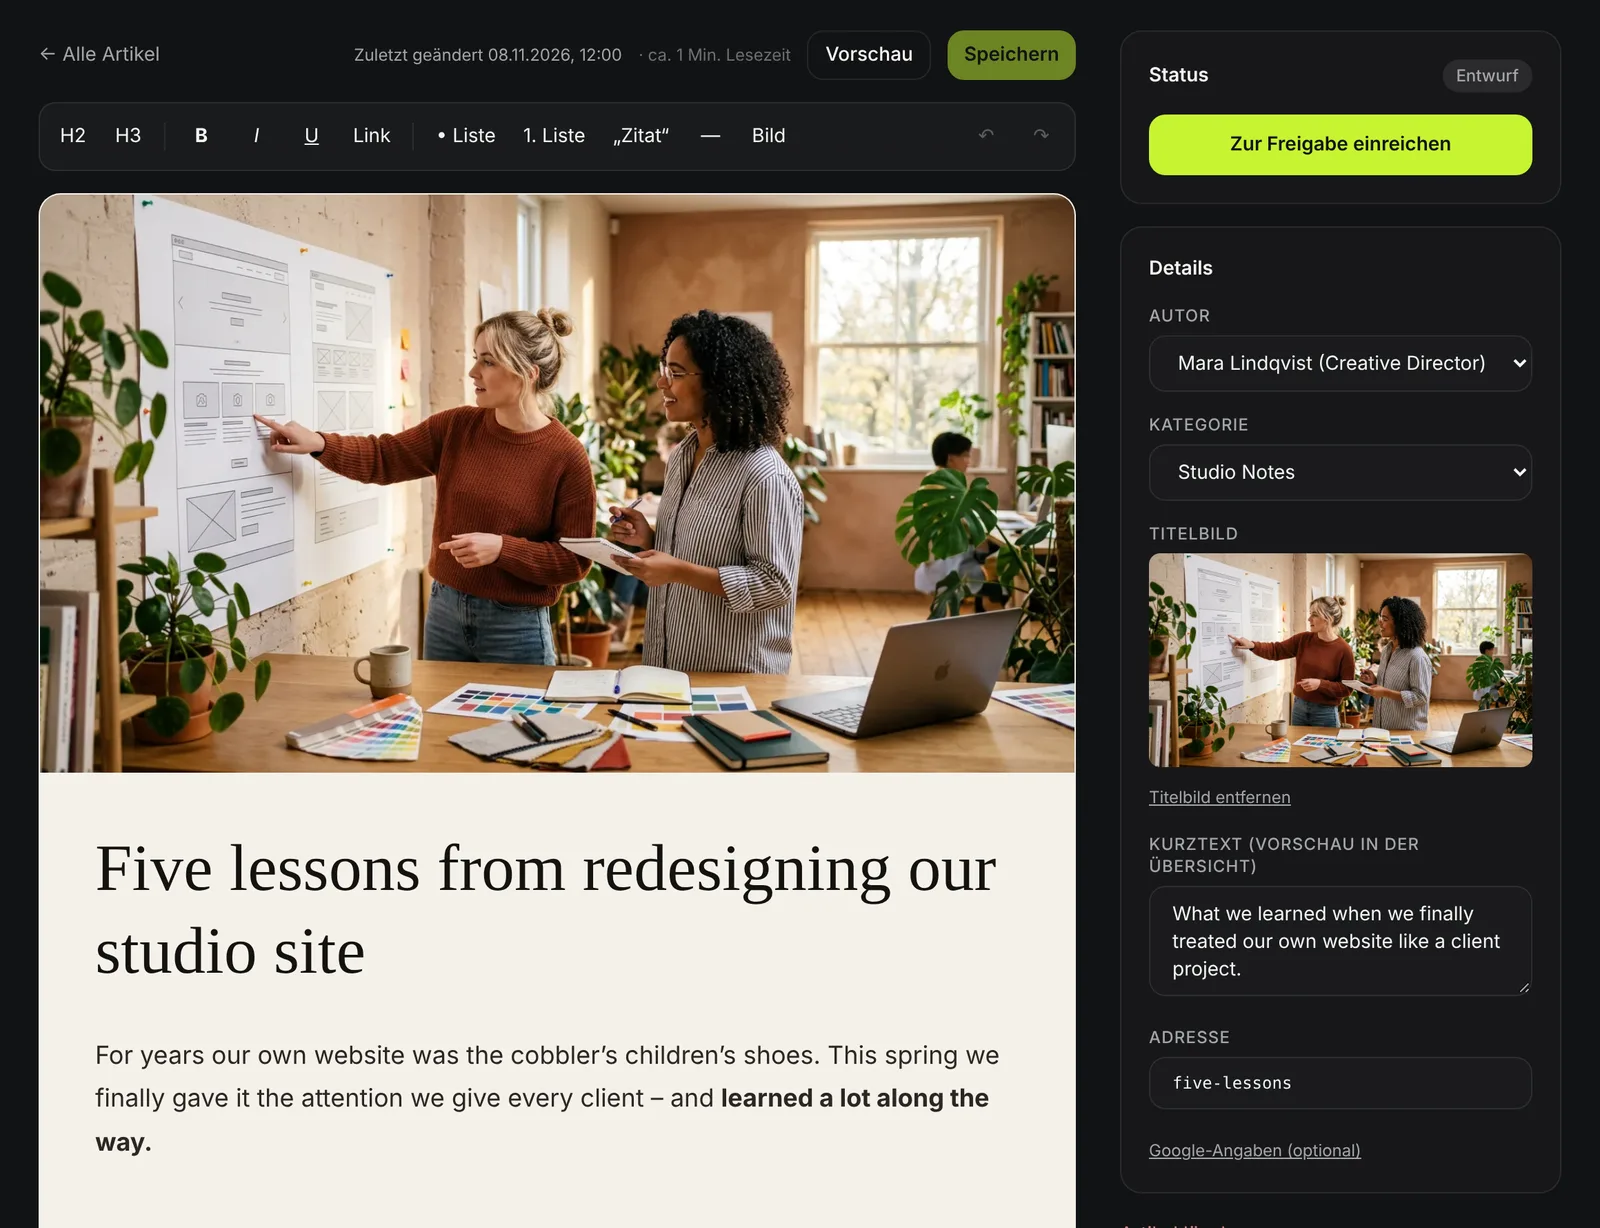
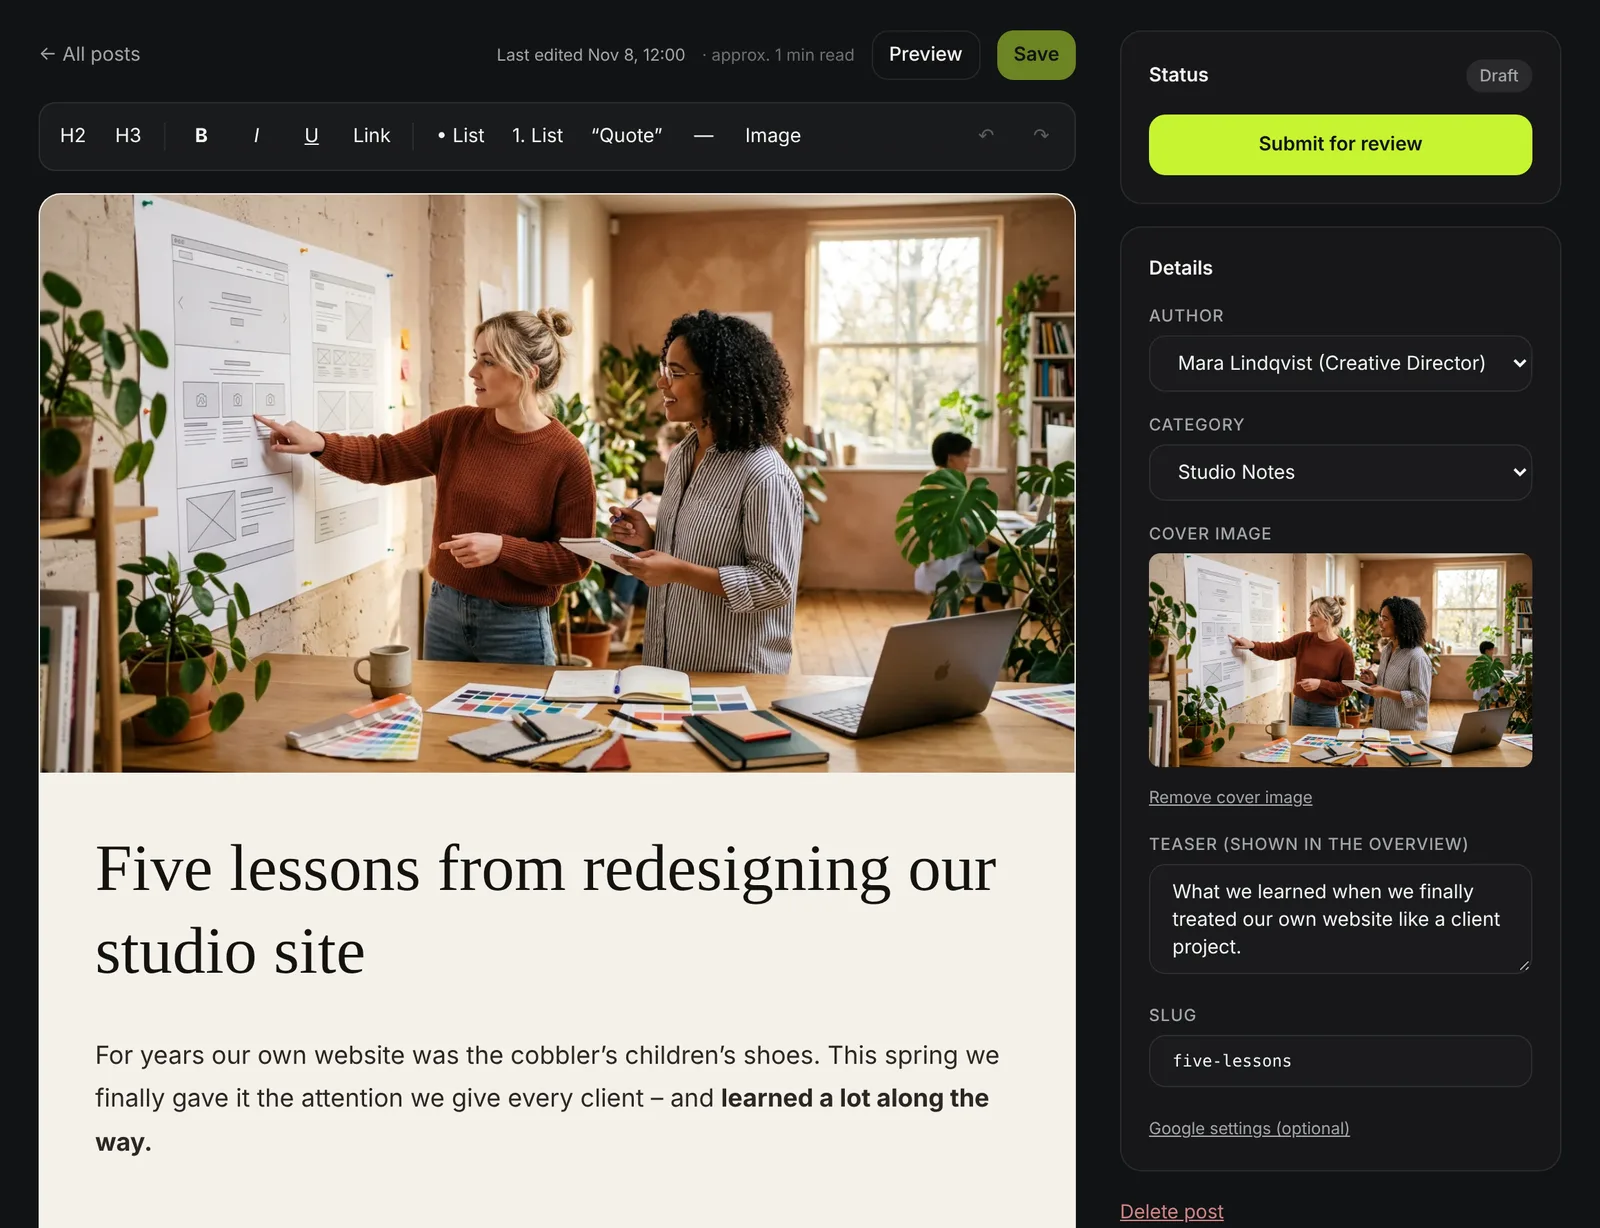
Produktseite Blog: englische Screenshots

diff --git a/products/codenova-blog.html b/products/codenova-blog.html
@@ -113,7 +113,7 @@
         <div class="shot reveal">
           <figure class="browser">
             <div class="bar" aria-hidden="true"><i></i><i></i><i></i><span>blog.codenovalabs.net</span></div>
-            <img src="/assets/img/blog/editor.webp?v=2" width="1600" height="1228" loading="lazy" alt="The CodeNova Blog editor with a cover image, headline and article text in the customer's design, plus a sidebar with status, author and category">
+            <img src="/assets/img/blog/editor.webp?v=3" width="1600" height="1228" loading="lazy" alt="The CodeNova Blog editor with a cover image, headline and article text in the customer's design, plus a sidebar with status, author and category">
           </figure>
           <div>
             <span class="label">the editor</span>
@@ -158,7 +158,7 @@
         <div class="shot reveal">
           <figure class="browser">
             <div class="bar" aria-hidden="true"><i></i><i></i><i></i><span>blog.codenovalabs.net · design</span></div>
-            <img src="/assets/img/blog/design.webp?v=2" width="1600" height="1155" loading="lazy" alt="Design settings in CodeNova Blog: heading and body fonts, colour pickers and a live preview of an article">
+            <img src="/assets/img/blog/design.webp?v=3" width="1600" height="1231" loading="lazy" alt="Design settings in CodeNova Blog: heading and body fonts, colour pickers and a live preview of an article">
           </figure>
           <div>
             <span class="label">your brand</span>
@@ -264,7 +264,7 @@
           </details>
           <details>
             <summary>Which languages does the editor support?</summary>
-            <p>The editor is currently available in German, with English coming before launch. Your posts can of course be written in any language.</p>
+            <p>The editor will be available in English and German at launch. Your posts can of course be written in any language.</p>
           </details>
           <details>
             <summary>When can I book a plan?</summary>
